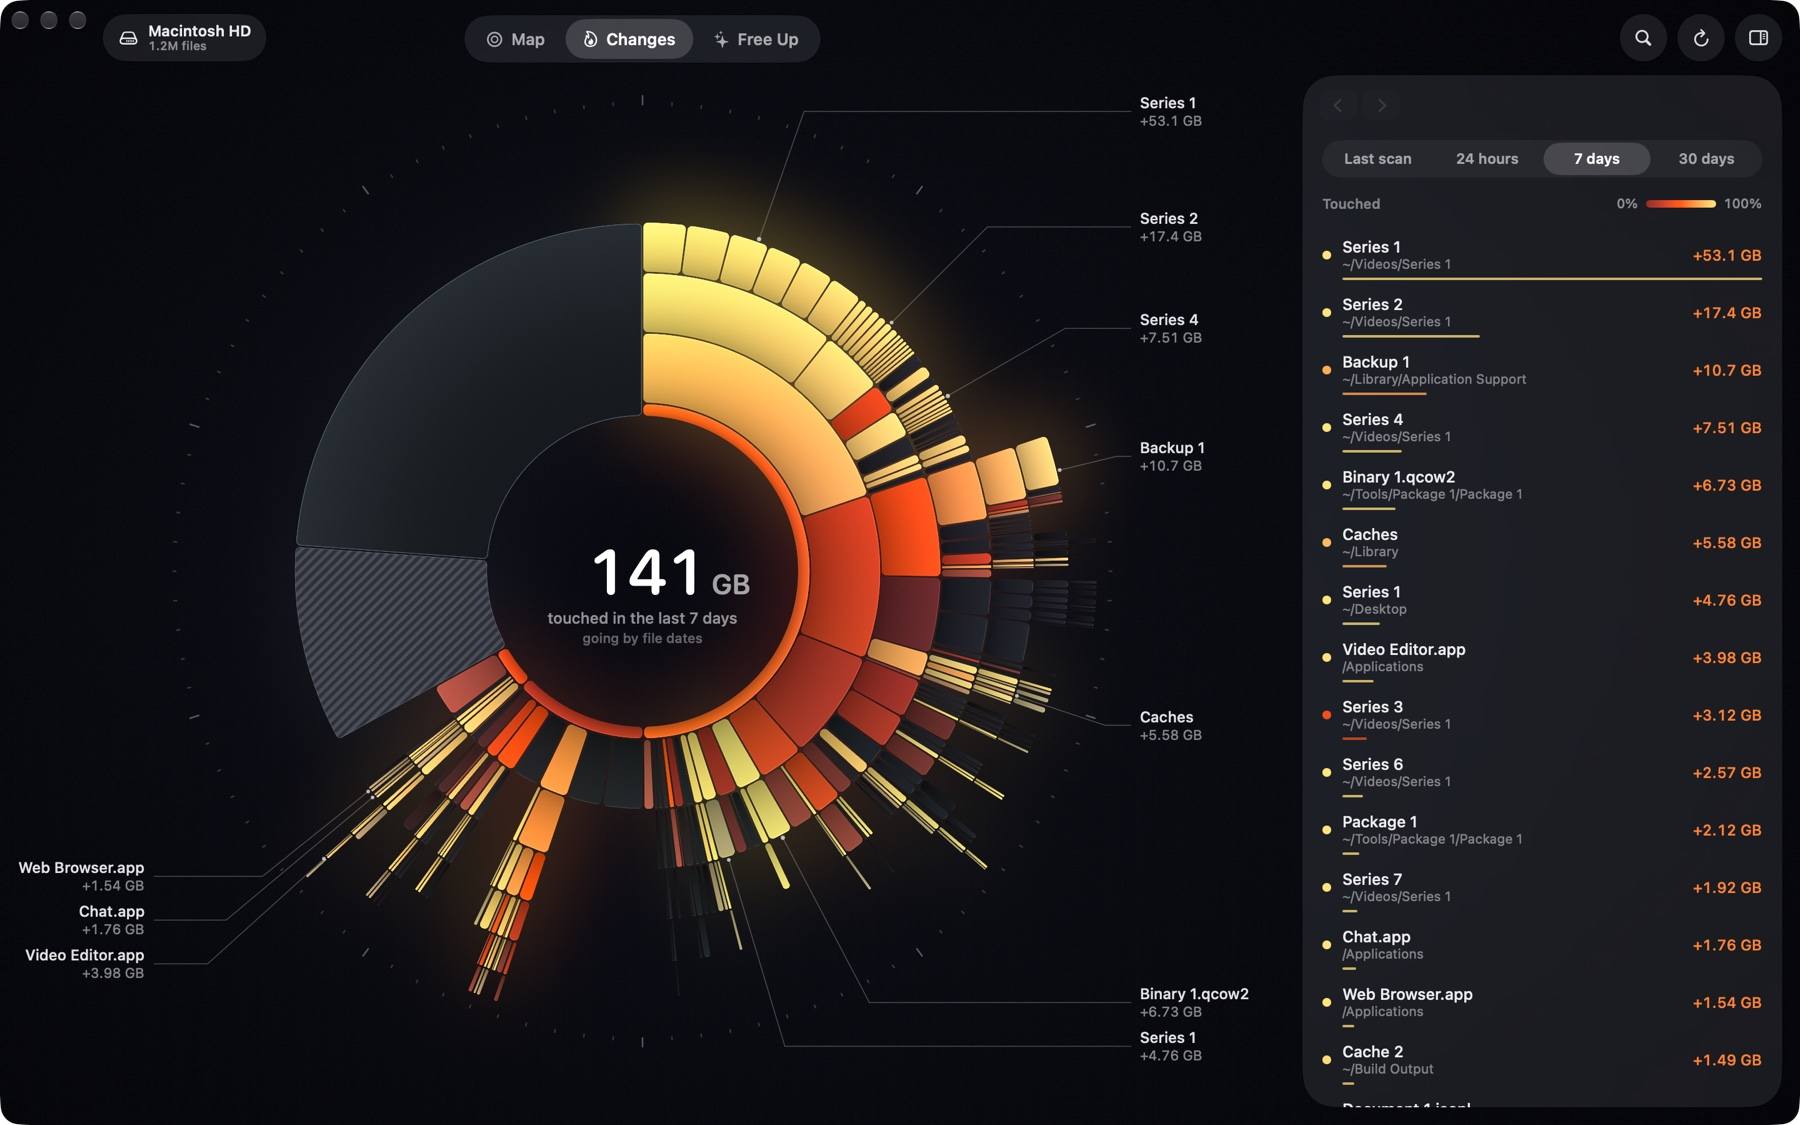
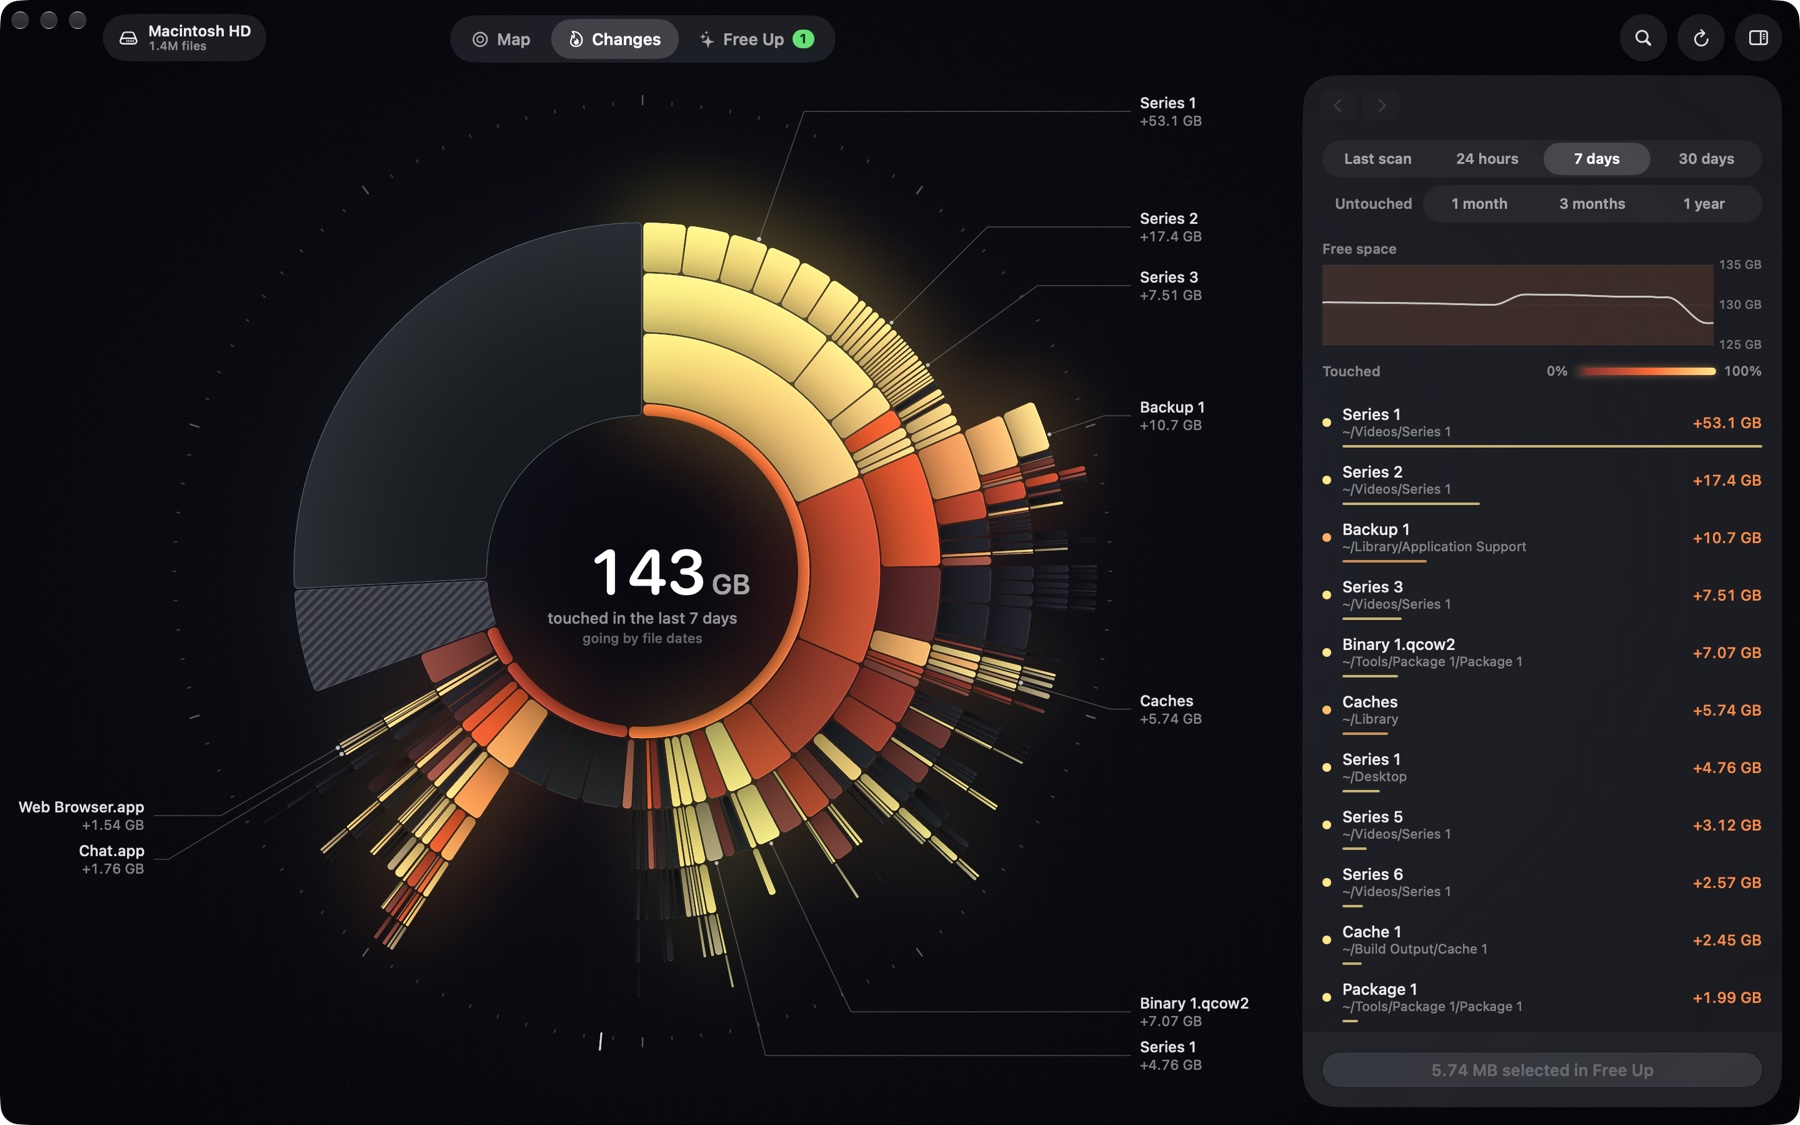
docs(readme): new screenshots, and text that matches the app
The screenshots showed Changes before it could look back at what's gone
untouched. Some of the text had fallen behind too: memory at rest, what
the middle of the ring says in Changes, a few keys, and the developer
notes on refreshing, updates, --locked and release.sh.

diff --git a/Sources/Headroom/App/ScriptRunner.swift b/Sources/Headroom/App/ScriptRunner.swift
@@ -6,8 +6,8 @@ import SwiftUI
 /// checked by eye without anyone at the mouse. Started with `--script steps.txt`, and it keeps its data apart from yours.
 /// It can look and click, but it can't move your files: the app may hold Full Disk Access, and that shouldn't be
 /// something another program can script. Its clean, empty and undo steps are stopped by `Cleaner.onlyInside` anywhere but
-/// a throwaway test disk. `--no-cache` starts without the saved scan, and `--locked` leaves the guarded folders alone,
-/// as on a first launch.
+/// a throwaway test disk. `--no-cache` starts without the saved scan, and `--locked` acts as if Full Disk Access were off,
+/// so nothing is read, as on a first launch without it.
 ///
 ///     wait 1.5                 pause, in seconds
 ///     scanned                  wait until the running scan has finished

diff --git a/README.md b/README.md
@@ -28,7 +28,7 @@ Measured on an M5 MacBook Air with 2.1 million files on a 494 GB disk:
 | Searching every name on the map | 2 to 14 ms per keystroke, across about 324,000 folders and files |
 | Sizing up `~/Library`, 376,000 files | 1.7 s |
 | Checking 47 things before a clean | 0.35 s, then 9 ms each time you tick one more |
-| Sitting open | 0% CPU and 95–115 MB of memory |
+| Sitting open | 0% CPU and 130–150 MB of memory |
 
 ## Honest about space
 
@@ -78,8 +78,9 @@ box to select everything in it, or open the box to pick one thing at a time. Not
 
 ![Changes: what was new or changed in the last seven days, each folder coloured from red for a little to yellow for all of it, with a list of the folders responsible](docs/changes.jpg)
 
-What grew since the last scan, or in the last day, week or month. Each piece is coloured by how much of it is new or changed, red for a little
-and yellow for all of it, the middle says how much free space changed, and the panel lists what grew and what shrank.
+What grew since the last scan, or in the last day, week or month. Each piece is coloured by how much of it is new or
+changed, red for a little and yellow for all of it. The middle says how much free space changed, when there's an earlier
+scan to compare with, or otherwise how much was touched, going by file dates. The panel lists what grew or was touched.
 
 Or the other way round: what nothing has changed in for a month, three months or a year, deep blue for a little and
 pale ice for all of it. An app you opened, a film you watched or a game you played in that time counts as touched,
@@ -87,7 +88,7 @@ however old its files are.
 
 ### Search
 
-![Search: 70 matches for "mkv", each with its path and size, all of them lit up on the ring](docs/search.jpg)
+![Search: 65 matches for "mkv", each with its path and size, all of them lit up on the ring](docs/search.jpg)
 
 Press ⌘F and type. The matches are listed as you type, biggest first, each with its path and size, and they light up on
 the ring. Capitals and accents don't matter, in any alphabet.
@@ -116,7 +117,7 @@ open build/Headroom.app
 The first time, Headroom explains what macOS keeps private and shows you where to switch on Full Disk Access. Until then
 it reads nothing at all, so macOS never asks you about a folder: the ring shows only what the disk itself reports, and
 Headroom reads the whole disk the moment it may. A build is signed with a certificate called Headroom if your
-keychain has one, and otherwise with your development certificate, so the permission survives rebuilds.
+keychain has one, and otherwise with your development certificate if you have one, so the permission survives rebuilds.
 
 When there's a new version, Headroom says so at launch and can put it in place itself. Say Not This Version and it waits
 for the one after. **Check for Updates…** in the Headroom menu, or in About, looks again whenever you like. Every
@@ -131,12 +132,15 @@ before you press **Clean**.
 | | |
 |---|---|
 | ⌘1, ⌘2, ⌘3 | Map, Changes, Free Up |
+| ⇧⌘↑ | Back to the whole disk |
+| ⇧⌘P | Show or hide the panel |
 | ⌘F | Find a file or folder |
 | Space | A closer look at what you're pointing at |
 | Esc | Up a level |
 | ⌘[, ⌘] | Back and forward through where you've been |
 | ⌘C, ⌥⌘C | Copy the name, or the path |
 | ⌘O, ⌥⌘R | Open, or reveal in the Finder |
+| ⌘⌫ | Select or unselect it in Free Up |
 | ⌘Z | Undo the last Send to Trash or clean |
 | ⌘R | Read the disk again, at full power |
 | Hold ⌥ in Free Up | See the disk as it will be afterwards |
@@ -149,11 +153,13 @@ How Headroom is designed, with every measurement, is in [DESIGN.md](DESIGN.md).
 
 | Where | What |
 |---|---|
-| `Model/Scanner.swift` | The scan: `getattrlistbulk` on a thread pool, big things first, then the rest at low priority |
+| `Model/Scanner.swift` | The scan: `getattrlistbulk` on a thread pool, big things first. A refresh reads only what changed and copies the rest |
+| `Model/ChangeJournal.swift` | Which folders changed since a scan, from the record of changes macOS keeps |
 | `Advice/Walker.swift` | Looking closely at one folder: its size, newest change, largest file and files with more than one name |
 | `Advice/Cleaner.swift` | Everything that touches files, behind one set of checks |
 | `Advice/Sections.swift` | The Free Up boxes |
 | `Render/Shaders.metal` | Each piece's shape and light, the glow and the scale |
+| `App/Updater.swift` | New versions from GitHub's releases, taken only when signed with the same certificate |
 
 - `swift test` runs the tests, on made-up disks.
 - `build/Headroom.app/Contents/MacOS/Headroom --script steps.txt` drives the whole app from a script, without touching
@@ -161,4 +167,7 @@ How Headroom is designed, with every measurement, is in [DESIGN.md](DESIGN.md).
   throwaway disk image named `HeadroomTest`.
 - `--hide-names` swaps every folder and file name for a made-up one, for screenshots. With `--script`, put it last.
 - `--no-cache` starts without the saved scan, to see what a first launch looks like.
+- `--locked`, with `--script`, acts as if Full Disk Access were off, to see what that looks like.
+- `./release.sh` makes the release disk image, signed with the certificate called Headroom. A release signed any other
+  way would be turned down by every copy that updates itself.
 - The app icon is an Icon Composer document, `Resources/AppIcon.icon`. After changing it, run `Resources/make-icon.sh`.
